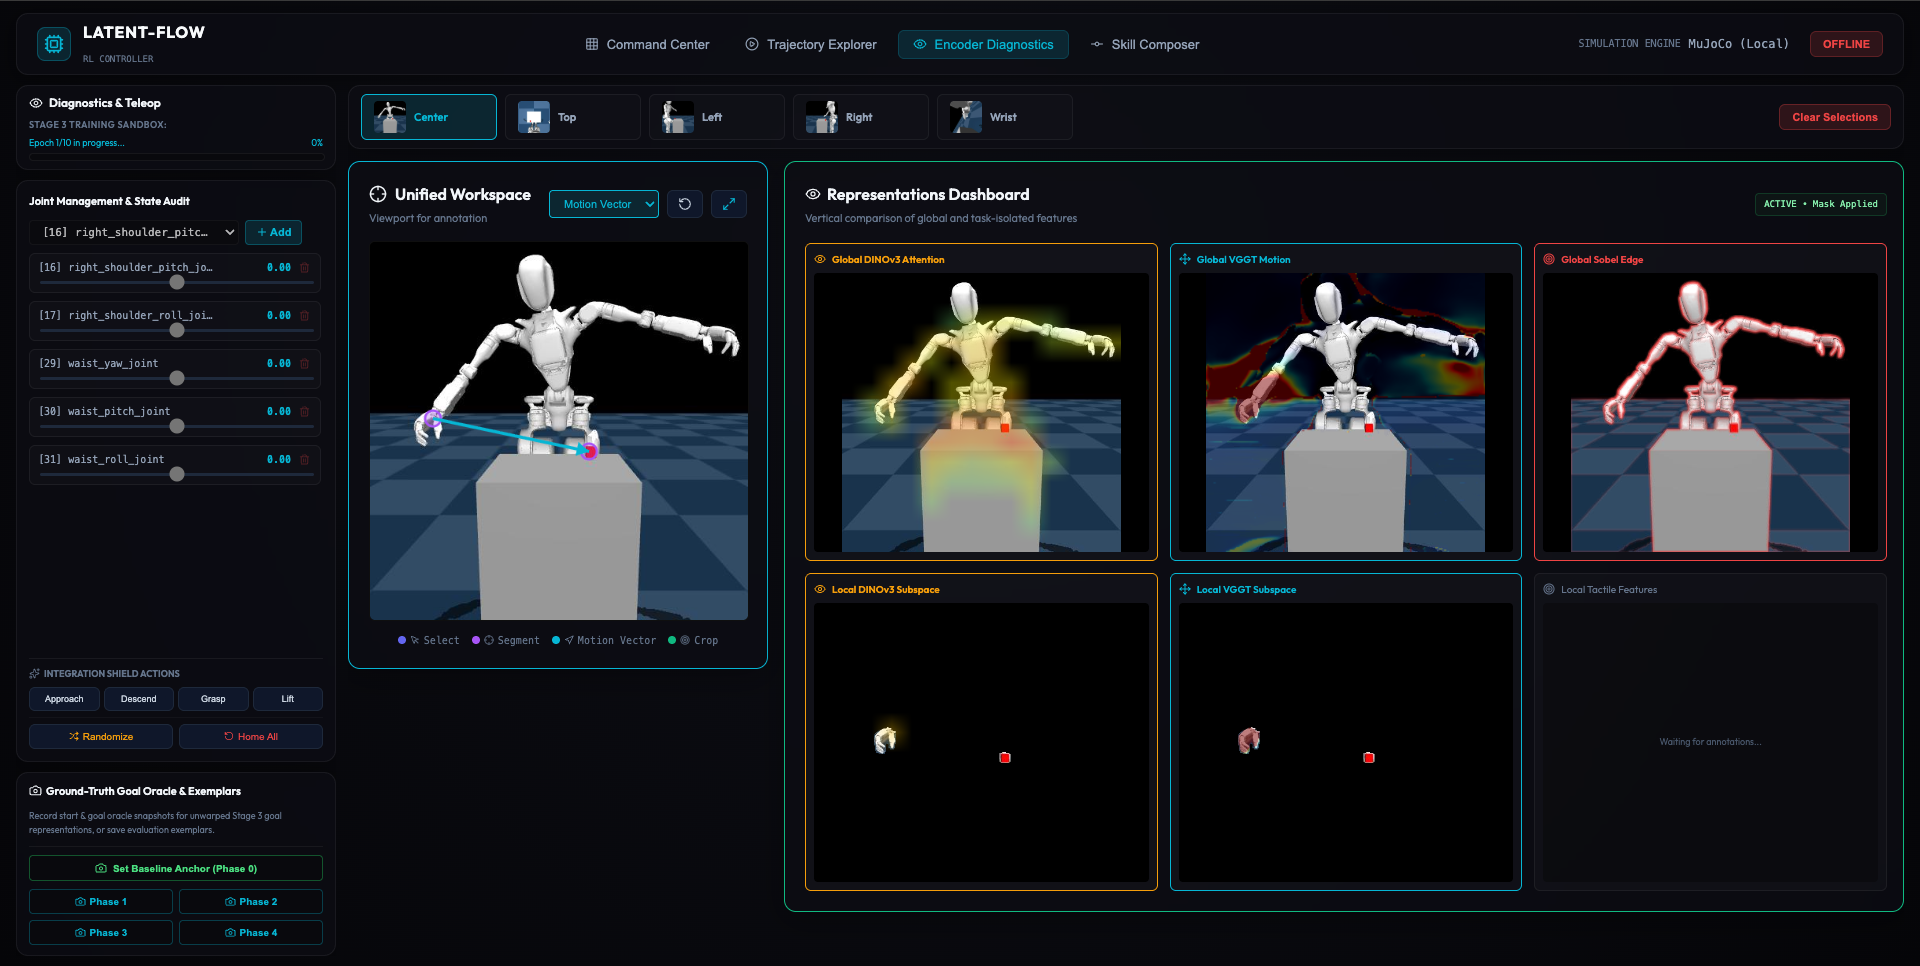
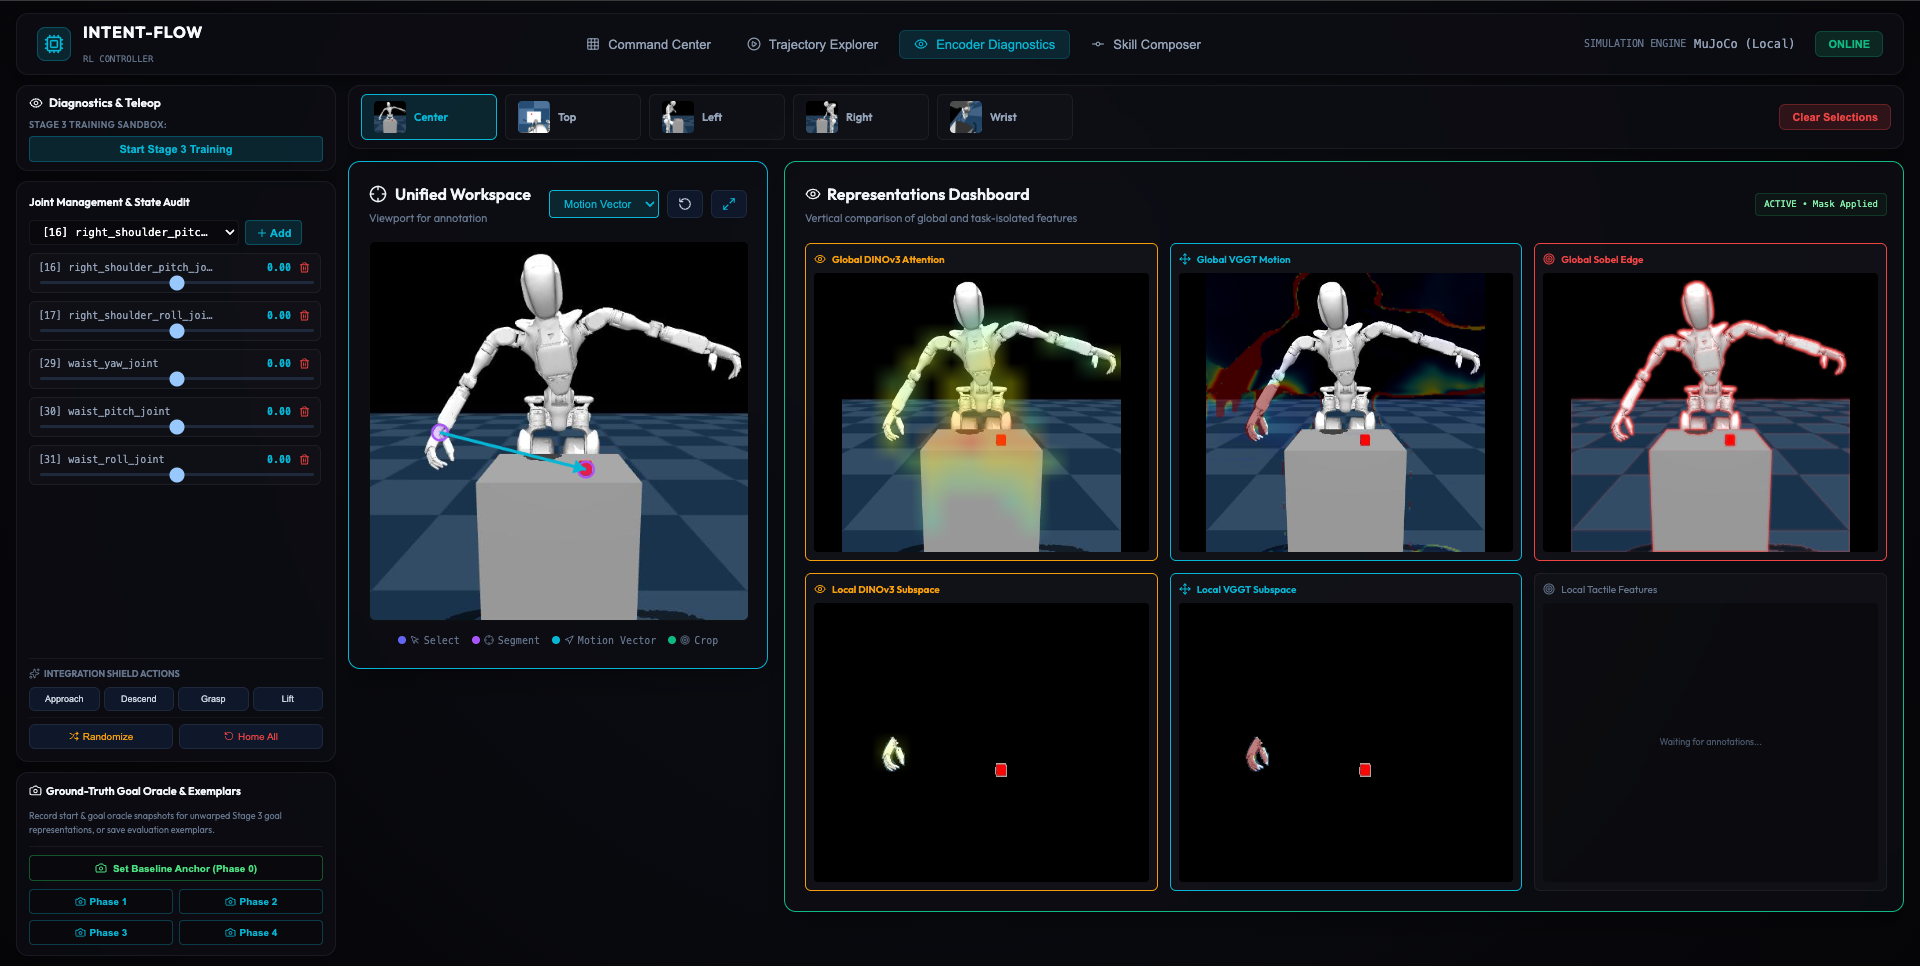
more renaming, updated the websocket handler to only process all candidates without rendering and the top ones with rendering to save time

diff --git a/ui/src/App.jsx b/ui/src/App.jsx
@@ -268,7 +268,7 @@ export default function App() {
             <Cpu size={20} />
           </div>
           <div className="header-title-group">
-            <h1>LATENT-FLOW</h1>
+            <h1>INTENT-FLOW</h1>
             <span>RL CONTROLLER</span>
           </div>
         </div>

diff --git a/ui/server_pkg/websocket_handler.py b/ui/server_pkg/websocket_handler.py
@@ -236,8 +236,8 @@ async def websocket_endpoint_handler(websocket, sim, eval_sim):
                                     initial_qvel = sim.data.qvel.copy()
                                     initial_ctrl = sim.data.ctrl.copy()
 
-                                    evaluated_candidates = []
-
+                                    # --- PASS 1: Pure Physics Rollout & Distance Scoring (Zero Camera Rendering) ---
+                                    screened_candidates = []
                                     for candidate_idx in range(16):
                                         eval_sim.data.qpos[:] = initial_qpos
                                         eval_sim.data.qvel[:] = initial_qvel
@@ -245,17 +245,6 @@ async def websocket_endpoint_handler(websocket, sim, eval_sim):
                                         mujoco.mj_forward(eval_sim.model, eval_sim.data)
 
                                         step_phys_distances = []
-                                        track_frames_per_cam = {
-                                            cam: []
-                                            for cam in [
-                                                "world_center",
-                                                "world_top",
-                                                "world_left",
-                                                "world_right",
-                                                "world_wrist",
-                                            ]
-                                        }
-
                                         for h in range(7):
                                             act_k = action_np[candidate_idx, h, :]
                                             act_32_clamped = np.clip(
@@ -292,6 +281,67 @@ async def websocket_endpoint_handler(websocket, sim, eval_sim):
                                             h_phys_dist = min(r_dist, l_dist)
                                             step_phys_distances.append(h_phys_dist)
 
+                                        min_phys_dist = float(
+                                            np.min(step_phys_distances)
+                                        )
+                                        final_phys_dist = float(step_phys_distances[-1])
+                                        mean_phys_dist = float(
+                                            np.mean(step_phys_distances)
+                                        )
+
+                                        screened_candidates.append(
+                                            {
+                                                "candidate_idx": candidate_idx,
+                                                "mean_phys_dist": mean_phys_dist,
+                                                "min_phys_dist": min_phys_dist,
+                                                "final_phys_dist": final_phys_dist,
+                                            }
+                                        )
+
+                                    # Rank all 16 candidates by ascending physical distance to goal
+                                    screened_candidates.sort(
+                                        key=lambda c: (
+                                            c["min_phys_dist"],
+                                            c["final_phys_dist"],
+                                        )
+                                    )
+                                    top_8_screened = screened_candidates[:8]
+
+                                    # --- PASS 2: Render Camera Frames ONLY for the Top 8 Candidates ---
+                                    top_8_candidates = []
+                                    for rank, cand_meta in enumerate(
+                                        top_8_screened, start=1
+                                    ):
+                                        candidate_idx = cand_meta["candidate_idx"]
+                                        eval_sim.data.qpos[:] = initial_qpos
+                                        eval_sim.data.qvel[:] = initial_qvel
+                                        eval_sim.data.ctrl[:] = initial_ctrl
+                                        mujoco.mj_forward(eval_sim.model, eval_sim.data)
+
+                                        track_frames_per_cam = {
+                                            cam: []
+                                            for cam in [
+                                                "world_center",
+                                                "world_top",
+                                                "world_left",
+                                                "world_right",
+                                                "world_wrist",
+                                            ]
+                                        }
+
+                                        for h in range(7):
+                                            act_k = action_np[candidate_idx, h, :]
+                                            act_32_clamped = np.clip(
+                                                act_k[:32], -1.0, 1.0
+                                            )
+                                            eval_sim.process_target_32(act_32_clamped)
+                                            eval_sim.dispatch_action(
+                                                action_32_norm=act_32_clamped,
+                                                target_q=eval_sim.last_target_q,
+                                                n_steps=2,
+                                                reset_start=False,
+                                            )
+
                                             cur_frames, _ = render_camera_views(
                                                 eval_sim
                                             )
@@ -302,20 +352,19 @@ async def websocket_endpoint_handler(websocket, sim, eval_sim):
                                                         cam_key
                                                     ].append(cur_frames[cam_key])
 
-                                        min_phys_dist = float(
-                                            np.min(step_phys_distances)
-                                        )
-                                        final_phys_dist = float(step_phys_distances[-1])
-                                        mean_phys_dist = float(
-                                            np.mean(step_phys_distances)
-                                        )
-
-                                        evaluated_candidates.append(
+                                        top_8_candidates.append(
                                             {
+                                                "rank": rank,
                                                 "candidate_idx": candidate_idx,
-                                                "mean_phys_dist": mean_phys_dist,
-                                                "min_phys_dist": min_phys_dist,
-                                                "final_phys_dist": final_phys_dist,
+                                                "mean_phys_dist": cand_meta[
+                                                    "mean_phys_dist"
+                                                ],
+                                                "min_phys_dist": cand_meta[
+                                                    "min_phys_dist"
+                                                ],
+                                                "final_phys_dist": cand_meta[
+                                                    "final_phys_dist"
+                                                ],
                                                 "final_frames": {
                                                     cam: track_frames_per_cam[cam][-1]
                                                     for cam in track_frames_per_cam
@@ -332,25 +381,11 @@ async def websocket_endpoint_handler(websocket, sim, eval_sim):
                                             }
                                         )
 
-                                    # Rank candidates by ascending minimum physical distance to red cube
-                                    evaluated_candidates.sort(
-                                        key=lambda c: (
-                                            c["min_phys_dist"],
-                                            c["final_phys_dist"],
-                                        )
-                                    )
-                                    top_8_candidates = evaluated_candidates[:8]
-
-                                    for rank, cand in enumerate(
-                                        top_8_candidates, start=1
-                                    ):
-                                        cand["rank"] = rank
-
                                     top_candidate_dist = top_8_candidates[0][
                                         "min_phys_dist"
                                     ]
                                     print(
-                                        "📊 [Execute Checkpoint] Top Candidate #1 Mean "
+                                        "📊 [Execute Checkpoint] Top Candidate #1 Min "
                                         f"Physical Distance: {top_candidate_dist:.4f}m"
                                     )
 
